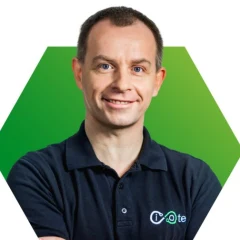
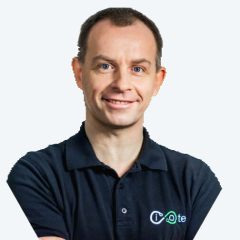
Give Daniel Mentrup's VerkehrsAI portrait a pale blue-gray background

diff --git a/verkehrsai.html b/verkehrsai.html
@@ -160,7 +160,7 @@
    <blockquote lang="de" translate="no" data-i18n-ignore cite="https://de.linkedin.com/posts/daniel-mentrup_verkehrsplanung-in-deutschland-basiert-oft-activity-7513114442705068032-x4tG">„Für mich verbindet dieses Projekt genau die Themen, an denen wir jeden Tag arbeiten. Sensorik, Edge-Verarbeitung, Energieautarkie.“</blockquote>
    <figcaption>
     <a class="traffic-quote-author" href="https://de.linkedin.com/posts/daniel-mentrup_verkehrsplanung-in-deutschland-basiert-oft-activity-7513114442705068032-x4tG" hreflang="de">
-     <img src="assets/company/daniel-mentrup.webp" alt="" width="76" height="76" loading="lazy" decoding="async">
+     <img src="assets/company/daniel-mentrup.webp?v=4c9b2d48d9c7" alt="" width="76" height="76" loading="lazy" decoding="async">
      <span>
       <strong data-i18n-ignore translate="no">Daniel Mentrup</strong>
       <span class="traffic-quote-source">LinkedIn <span aria-hidden="true">↗</span></span>
